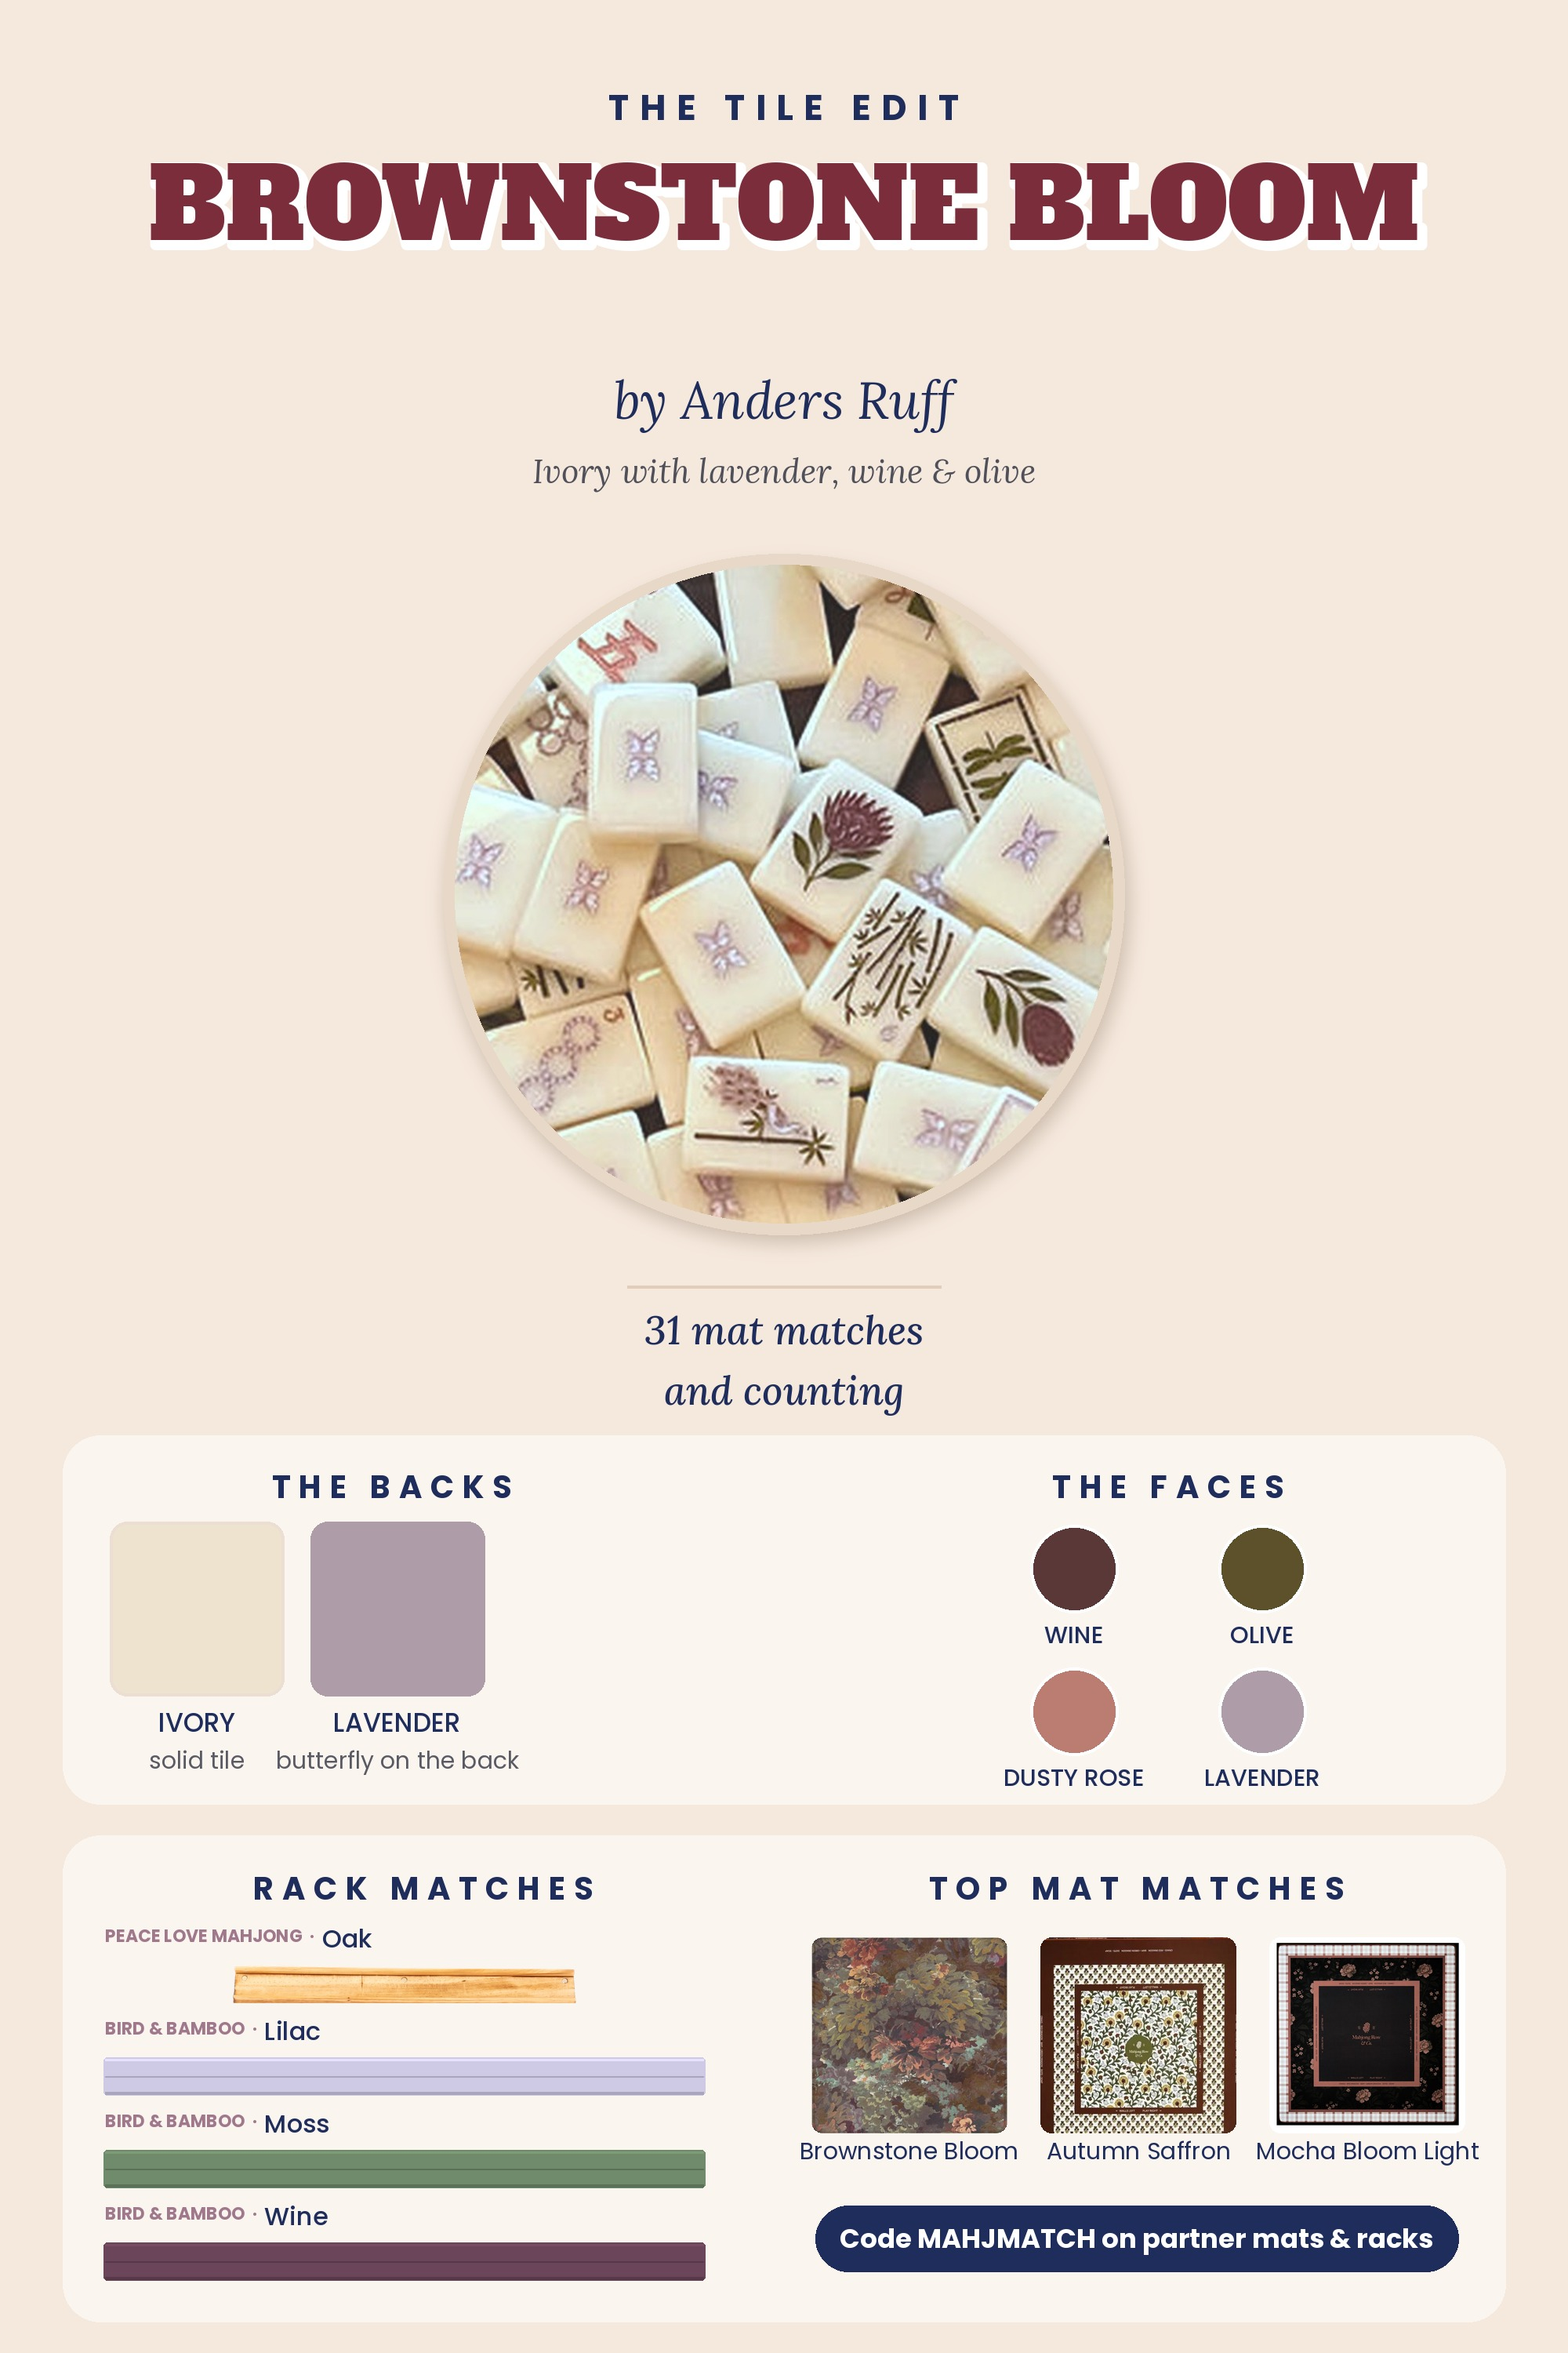
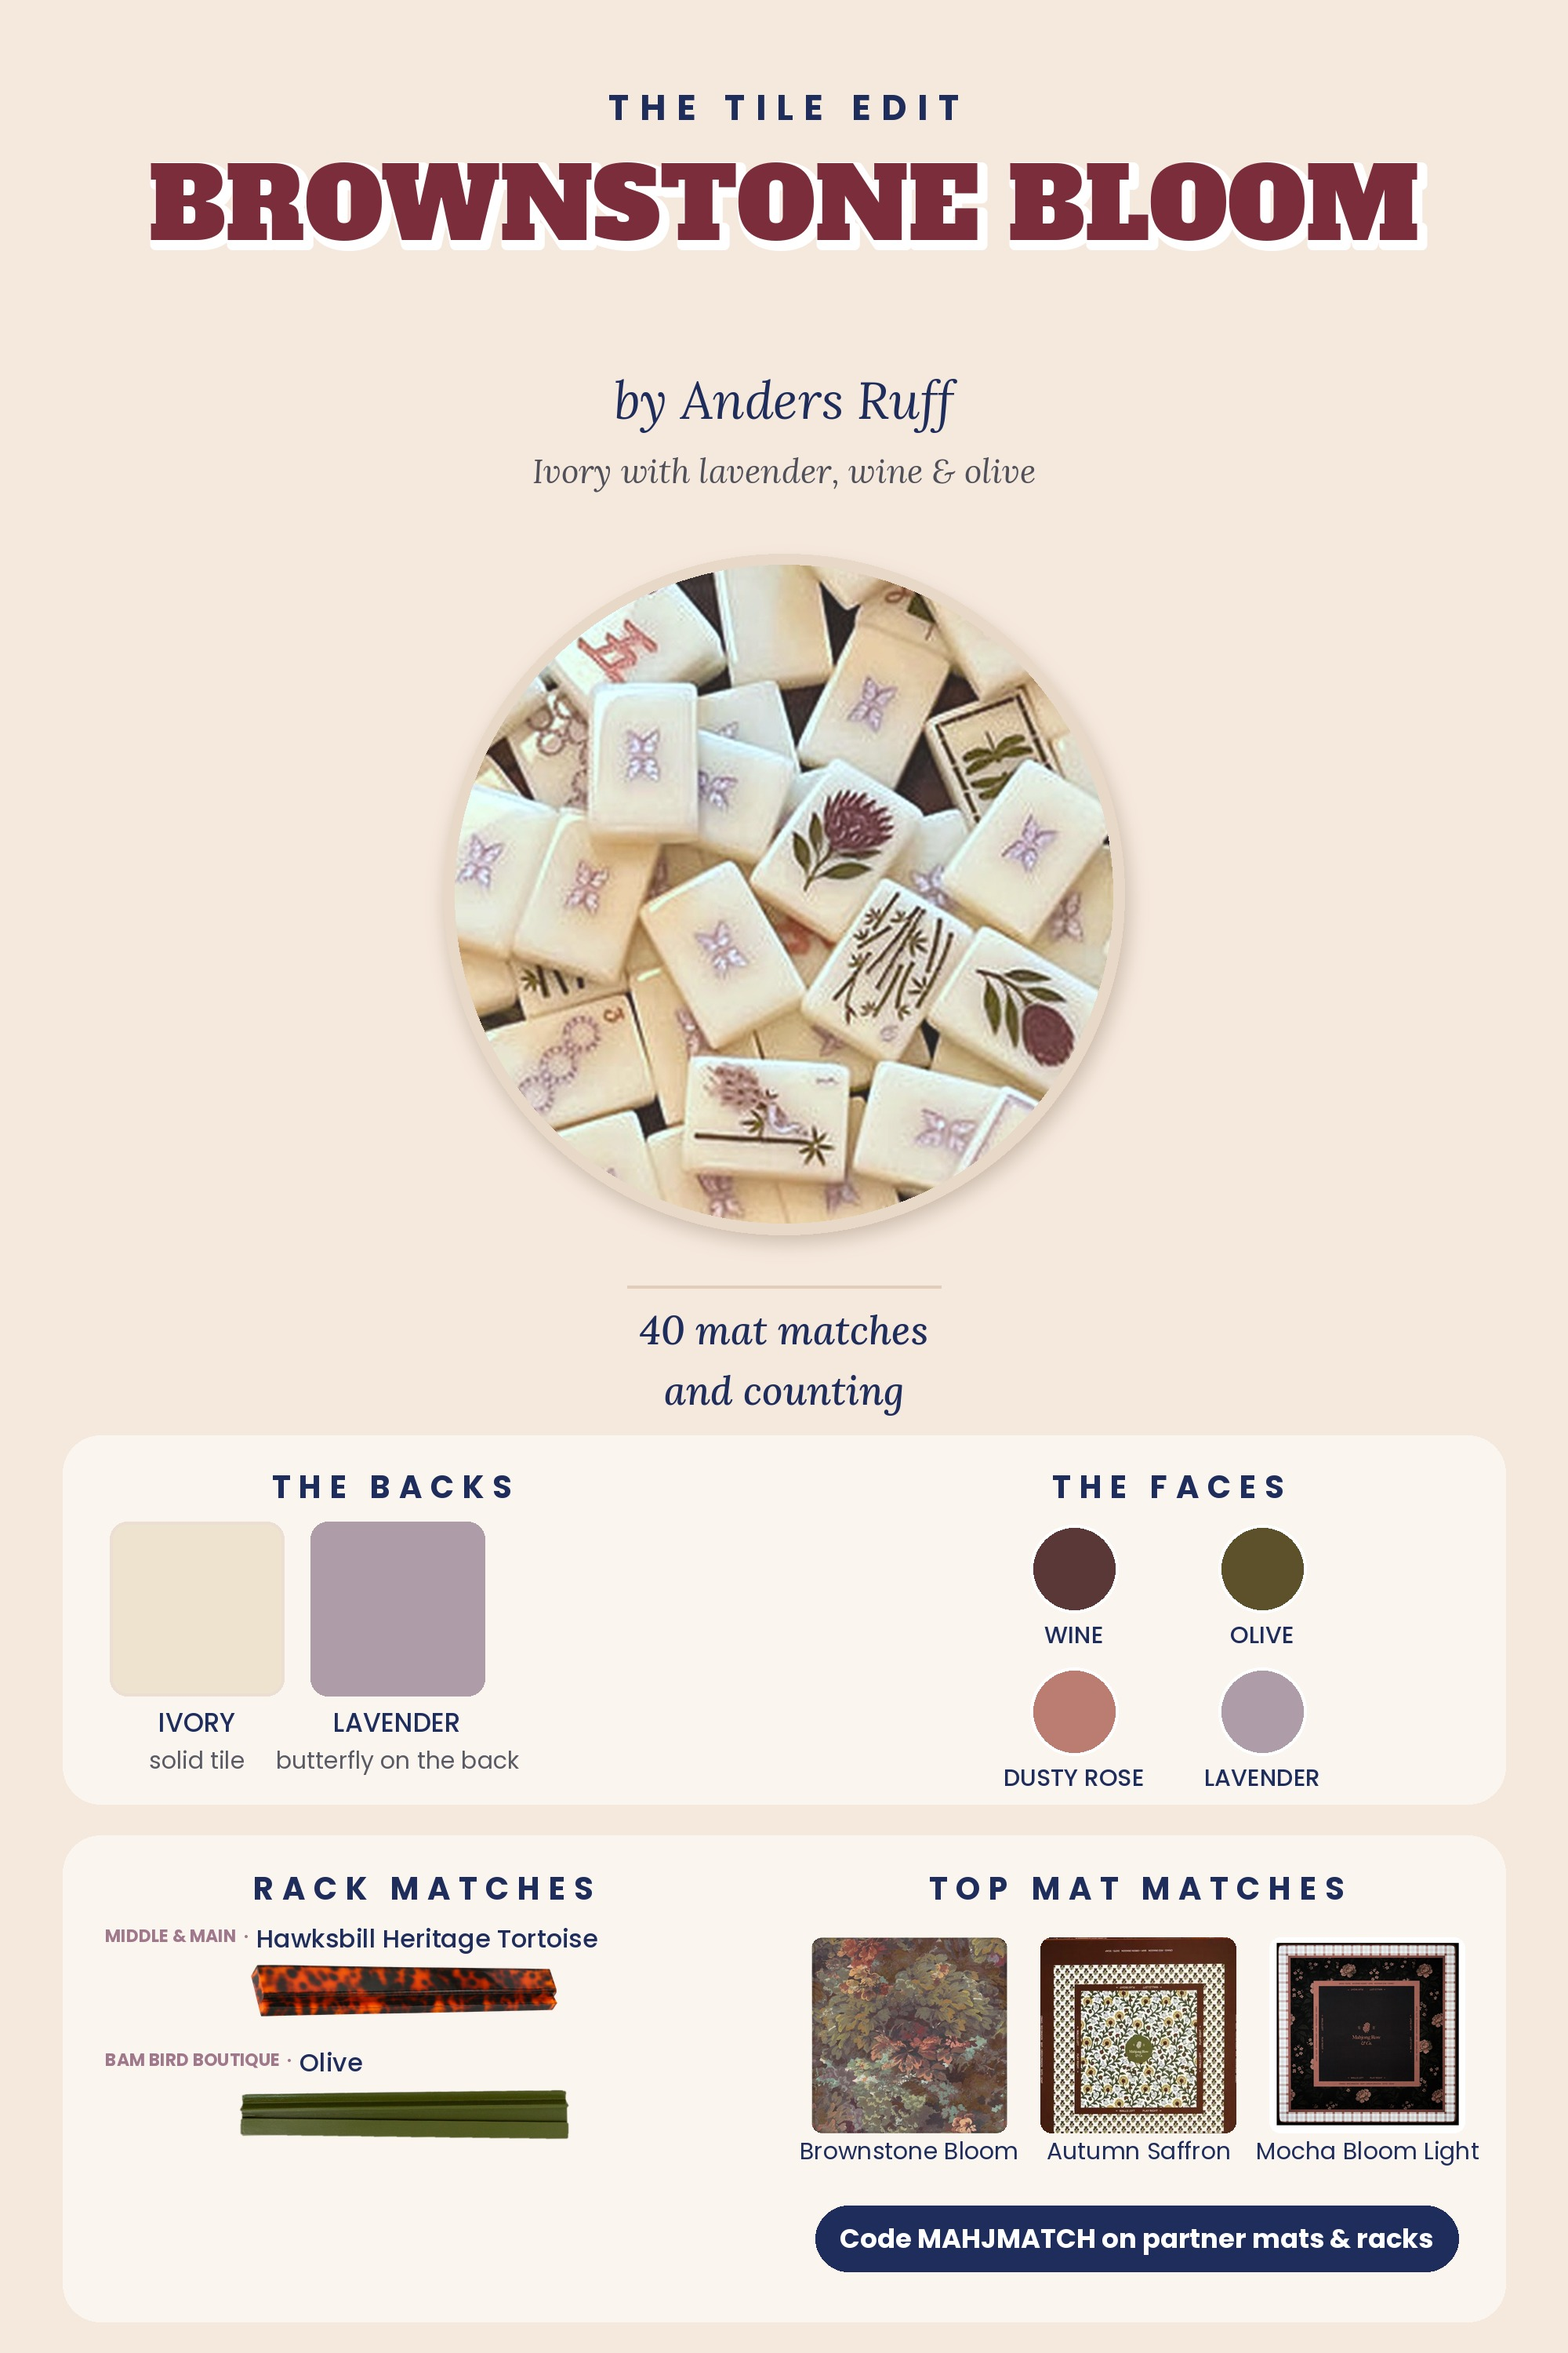
WIP Brownstone rebuild (agent in progress): colour cards, config, block script
Claude-Session: https://claude.ai/code/session_01QxwYQtmWcAr4s5uYJYP3mA

Changed region(s): [[0.062, 0.806, 0.465, 0.992], [0.403, 0.558, 0.589, 0.589]]

diff --git a/scripts/albumcard/oct20/brownstone_block.py b/scripts/albumcard/oct20/brownstone_block.py
@@ -1,27 +1,39 @@
-"""Full Brownstone Bloom album code block from the Oct 20 cards. Template = the Oct 18 staged block
+"""Full Brownstone Bloom album code block. Template = the Oct 18 staged block
 (site/livepatch/oct18c/brownstone-bloom.html, same structure/CSS/lightbox as the Papaya block); figures rebuilt in her order
-with Match the tiles / Match the mat captions. Usage: brownstone_block.py <sha>"""
-import json, sys, re
+with Match the tiles / Match the mat captions. Usage: brownstone_block.py <sha> [card folder, default brownstone-bloom-oct31]
+Oct 31: reads assets/cards/<folder>/manifest.json (40 cards); shop links = catalog, else the previous block's link for the
+same card file, else the manifest's round-2 'shop'. Partner list topped up from config/fym-mats-snapshot.json (pa=true),
+since the catalog partner list predates Amanda Toppe / Mahjong Register. Mahjong Row & Co. spelled one way."""
+import json, sys, re, os
 import common as C, album_block as A
-SHA = sys.argv[1]
-m = json.load(open(C.R + 'assets/cards/brownstone-bloom-oct20/manifest.json'))
-_STP = '/tmp/claude-0/-home-claude/801d31e6-4a74-59be-8637-eb67bfa0e99e/scratchpad/owedwork/bbhd/staged_urls.json'
-import os
-ST = json.load(open(_STP)) if os.path.exists(_STP) else {}  # Oct 21: scratch file is gone; fall back to the links in the last staged block
-if not ST:
-    _old = open(C.R + 'site/livepatch/brownstone-bloom-oct20/brownstone-bloom-codeblock.html').read()
-    for _c in m['cards']:
-        _f = re.search(re.escape(_c['file']) + r'.{0,6000}?<a class="mm3-btn" href="(http[^"]+)"', _old, re.S)
-        if _f: ST[_c['mat']] = {'url': _f.group(1)}
-BR = {'Mahjong Row & Co': 'Mahjong Row & Co.', 'Mac + Miller Mahjong': 'Mac + Miller Mahjong'}
+SHA = sys.argv[1]; FOLDER = sys.argv[2] if len(sys.argv) > 2 else 'brownstone-bloom-oct31'
+m = json.load(open(C.R + f'assets/cards/{FOLDER}/manifest.json'))
+for v in json.load(open(C.R + 'config/fym-mats-snapshot.json'))['mats'].values():
+    if v.get('pa') and not v.get('nc'): C.PARTNERS.add(v['bn'])
+OUTF = C.R + 'site/livepatch/brownstone-bloom-oct20/brownstone-bloom-codeblock.html'
+_old = open(OUTF).read()
+ST = {}
+for _c in m['cards']:
+    _f = re.search(re.escape(_c['file']) + r'.{0,6000}?<a class="mm3-btn" href="(http[^"]+)"', _old, re.S)
+    if _f: ST[_c['mat']] = _f.group(1).replace('&amp;', '&')
 cards = []
 for c in m['cards']:
-    url = C.mat_url(c['mat'], c['brand']) or C.mat_url(c['mat'], BR.get(c['brand'], c['brand'])) or ST.get(c['mat'], {}).get('url')
-    b = c['brand']
-    if b not in C.BRANDPG and ST.get(c['mat'], {}).get('brandpage'): C.BRANDPG[b] = ST[c['mat']]['brandpage']
-    if b == 'Mahjong Row & Co' and 'Mahjong Row & Co.' in C.PARTNERS: C.PARTNERS.add(b)
-    cards.append(dict(c, url=url))
+    b = 'Mahjong Row & Co.' if c['brand'].rstrip('.') == 'Mahjong Row & Co' else c['brand']
+    url = C.mat_url(c['mat'], b) or C.mat_url(c['mat'], c['brand']) or ST.get(c['mat']) or c.get('shop')
+    cards.append(dict(c, brand=b, url=url))
 tpl = open(C.R + 'site/livepatch/oct18c/brownstone-bloom.html').read()
-out = A.build(tpl, cards, 'Brownstone Bloom', 'Anders Ruff Brownstone Bloom', SHA, 'brownstone-bloom-oct20')
-open(C.R + 'site/livepatch/brownstone-bloom-oct20/brownstone-bloom-codeblock.html', 'w').write(out)
+out = A.build(tpl, cards, 'Brownstone Bloom', 'Anders Ruff Brownstone Bloom', SHA, FOLDER)
+# Colour card first (doc 86b / NEW-ALBUM-CHECKLIST): same Tile Edit markup as the Papaya block, right before the matches.
+CC = f'https://cdn.jsdelivr.net/gh/tiffanybrie/mahjmatchmaker-data@{SHA}/assets/colorcards/brownstone-bloom/00-brownstone-bloom-mahjong-tiles-'
+GUIDE = ('<section class="mm3-guides"><h2>Colors &amp; racks</h2><div class="mm3-gg"><figure class="mm3-g"><picture>'
+         f'<source media="(max-width: 640px)" srcset="{CC}color-guide-mobile.jpg"><img src="{CC}tile-edit-moodboard.jpg" data-lb="" '
+         'alt="Anders Ruff Brownstone Bloom mahjong tiles color card: ivory backs with lavender butterflies, wine, olive and dusty rose faces, rack and mat matches" loading="lazy">'
+         '</picture><figcaption><strong>The Tile Edit</strong><p>Ivory tiles with lavender butterflies on the back and wine, olive and dusty rose faces. '
+         'Middle &amp; Main Hawksbill Heritage Tortoise and Bam Bird Boutique Olive racks pick up her browns and greens.</p></figcaption></figure>'
+         '<style>.mm3-gg>.mm3-g:has(img[src*="tile-edit-moodboard"]){grid-column:1/-1}.mm3-gg>.mm3-g:has(img[src*="tile-edit-moodboard"]) figcaption{max-width:860px;margin:0 auto;padding:20px 26px 12px;font-size:16px}</style>'
+         '</div></section>')
+_M = '<section><h2>My Brownstone Bloom matches</h2>'
+assert out.count(_M) == 1 and 'mm3-guides' not in out
+out = out.replace(_M, GUIDE + _M).replace('Mahjong Row &amp; Co..', 'Mahjong Row &amp; Co.').replace('Mahjong Row & Co..', 'Mahjong Row & Co.')
+open(OUTF, 'w').write(out)
 print(len(re.findall(r'<figure class="mm3-c', out)), 'figures; missing links:', C.MISSING_LINKS)
